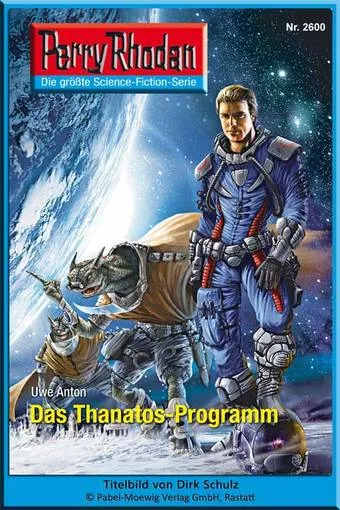
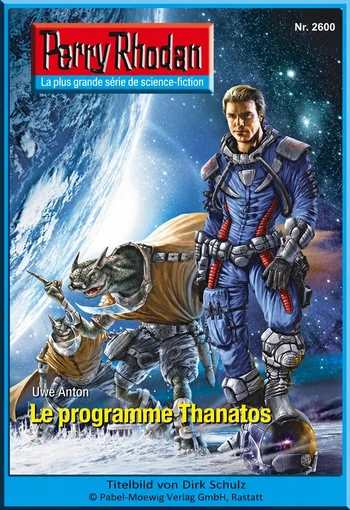
fix: translate covers 2593-2602

diff --git a/src/content/chapitres/de-2598.md b/src/content/chapitres/de-2598.md
@@ -4,11 +4,11 @@ cycleNumber: 36
 chapterNumber: 2598
 type: translation
 originalTitle: "Tod einer Superintelligenz"
-cover: "/images/covers/de-2598.webp"
+cover: "/images/covers/de-2598.webp?v=20261116-2598-fr"
 auteur: "Marc A. Herren"
 parution: "2011-06-17"
 statut: traduit
-titleFr: "*Perry Rhodan 2598 – Perry 2598 – Le Trépas d’une Superintelligence*"
+titleFr: "Perry 2598 - Le trépas d'une superintelligence"
 ---
 
 ## *Perry Rhodan 2598 – Perry 2598 – Le Trépas d’une Superintelligence* par Marc A. Herren

diff --git a/src/content/chapitres/de-2595.md b/src/content/chapitres/de-2595.md
@@ -4,11 +4,11 @@ cycleNumber: 36
 chapterNumber: 2595
 type: translation
 originalTitle: "Wanderer am Scheideweg"
-cover: "/images/covers/de-2595.webp"
+cover: "/images/covers/de-2595.webp?v=20261116-2595-fr"
 auteur: "Michael Marcus Thurner"
 parution: "2011-05-27"
 statut: traduit
-titleFr: "Perry 2595 - Le Voyageur à la croisée des chemins"
+titleFr: "Perry 2595 - Le voyageur à la croisée des chemins"
 ---
 
 Le Voyageur à la croisée des chemins

diff --git a/src/content/chapitres/de-2596.md b/src/content/chapitres/de-2596.md
@@ -4,11 +4,11 @@ cycleNumber: 36
 chapterNumber: 2596
 type: translation
 originalTitle: "Requiem für das Solsystem"
-cover: "/images/covers/de-2596.webp"
+cover: "/images/covers/de-2596.webp?v=20261116-2596-fr"
 auteur: "Christian Montillon"
 parution: "2011-06-03"
 statut: traduit
-titleFr: "Perry 2596 – Requiem pour le Système Solaire"
+titleFr: "Perry 2596 - Requiem pour le système solaire"
 ---
 
 Requiem pour le Système Solaire

diff --git a/src/content/chapitres/de-2600.md b/src/content/chapitres/de-2600.md
@@ -4,11 +4,11 @@ cycleNumber: 37
 chapterNumber: 2600
 type: translation
 originalTitle: "Das Thanatos-Programm"
-cover: "/images/covers/de-2600.webp"
+cover: "/images/covers/de-2600.webp?v=20261116-2600-fr"
 auteur: "Uwe Anton"
 parution: "2011-07-01"
 statut: traduit
-titleFr: "Heft 2600"
+titleFr: "Perry 2600 - Le programme Thanatos"
 ---
 
 Un vaisseau spatial en danger – Perry Rhodan se bat pour la liberté

diff --git a/src/content/chapitres/de-2594.md b/src/content/chapitres/de-2594.md
@@ -4,11 +4,11 @@ cycleNumber: 36
 chapterNumber: 2594
 type: translation
 originalTitle: "Begegnung der Unsterblichen"
-cover: "/images/covers/de-2594.webp"
+cover: "/images/covers/de-2594.webp?v=20261116-2594-fr"
 auteur: "Frank Borsch"
 parution: "2011-05-20"
 statut: traduit
-titleFr: "Perry 2594 - Rencontre des Immortels"
+titleFr: "Perry 2594 - Rencontre des immortels"
 ---
 
 Rencontre des Immortels

diff --git a/src/content/chapitres/de-2593.md b/src/content/chapitres/de-2593.md
@@ -4,11 +4,11 @@ cycleNumber: 36
 chapterNumber: 2593
 type: translation
 originalTitle: "Das PARALOX-ARSENAL"
-cover: "/images/covers/de-2593.webp"
+cover: "/images/covers/de-2593.webp?v=20261116-2593-fr"
 auteur: "Leo Lukas"
 parution: "2011-05-13"
 statut: traduit
-titleFr: "Perry 2593 - L’ARSENAL PARALOX"
+titleFr: "Perry 2593 - L'arsenal PARALOX"
 ---
 
 Un instrument de pouvoir monstrueux –

diff --git a/src/content/chapitres/de-2601.md b/src/content/chapitres/de-2601.md
@@ -4,11 +4,11 @@ cycleNumber: 37
 chapterNumber: 2601
 type: translation
 originalTitle: "Galaxis in Aufruhr"
-cover: "/images/covers/de-2601.webp"
+cover: "/images/covers/de-2601.webp?v=20261116-2601-fr"
 auteur: "Leo Lukas"
 parution: "2011-07-08"
 statut: traduit
-titleFr: "Galaxie en effervescence"
+titleFr: "Perry 2601 - Galaxie en effervescence"
 ---
 
 Galaxie en effervescence

diff --git a/src/content/chapitres/de-2599.md b/src/content/chapitres/de-2599.md
@@ -4,11 +4,11 @@ cycleNumber: 36
 chapterNumber: 2599
 type: translation
 originalTitle: "Der letzte Tag"
-cover: "/images/covers/de-2599.webp"
+cover: "/images/covers/de-2599.webp?v=20261116-2599-fr"
 auteur: "Marc A. Herren"
 parution: "2011-06-24"
 statut: traduit
-titleFr: "Perry 2599 – Le dernier jour"
+titleFr: "Perry 2599 - Le dernier jour"
 ---
 
 Le dernier jour

diff --git a/src/content/chapitres/de-2597.md b/src/content/chapitres/de-2597.md
@@ -4,11 +4,11 @@ cycleNumber: 36
 chapterNumber: 2597
 type: translation
 originalTitle: "Hyperkälte"
-cover: "/images/covers/de-2597.webp"
+cover: "/images/covers/de-2597.webp?v=20261116-2597-fr"
 auteur: "Christian Montillon"
 parution: "2011-06-10"
 statut: traduit
-titleFr: "Perry 2597 - Froid hyper"
+titleFr: "Perry 2597 - Hyperfroid"
 ---
 
 Hyperkälte

diff --git a/src/content/chapitres/de-2602.md b/src/content/chapitres/de-2602.md
@@ -4,7 +4,7 @@ cycleNumber: 37
 chapterNumber: 2602
 type: translation
 originalTitle: "Die Todringer von Orontes"
-cover: "/images/covers/de-2602.webp"
+cover: "/images/covers/de-2602.webp?v=20261116-2602-fr"
 auteur: "Michael Marcus Thurner"
 parution: "2011-07-15"
 statut: traduit
